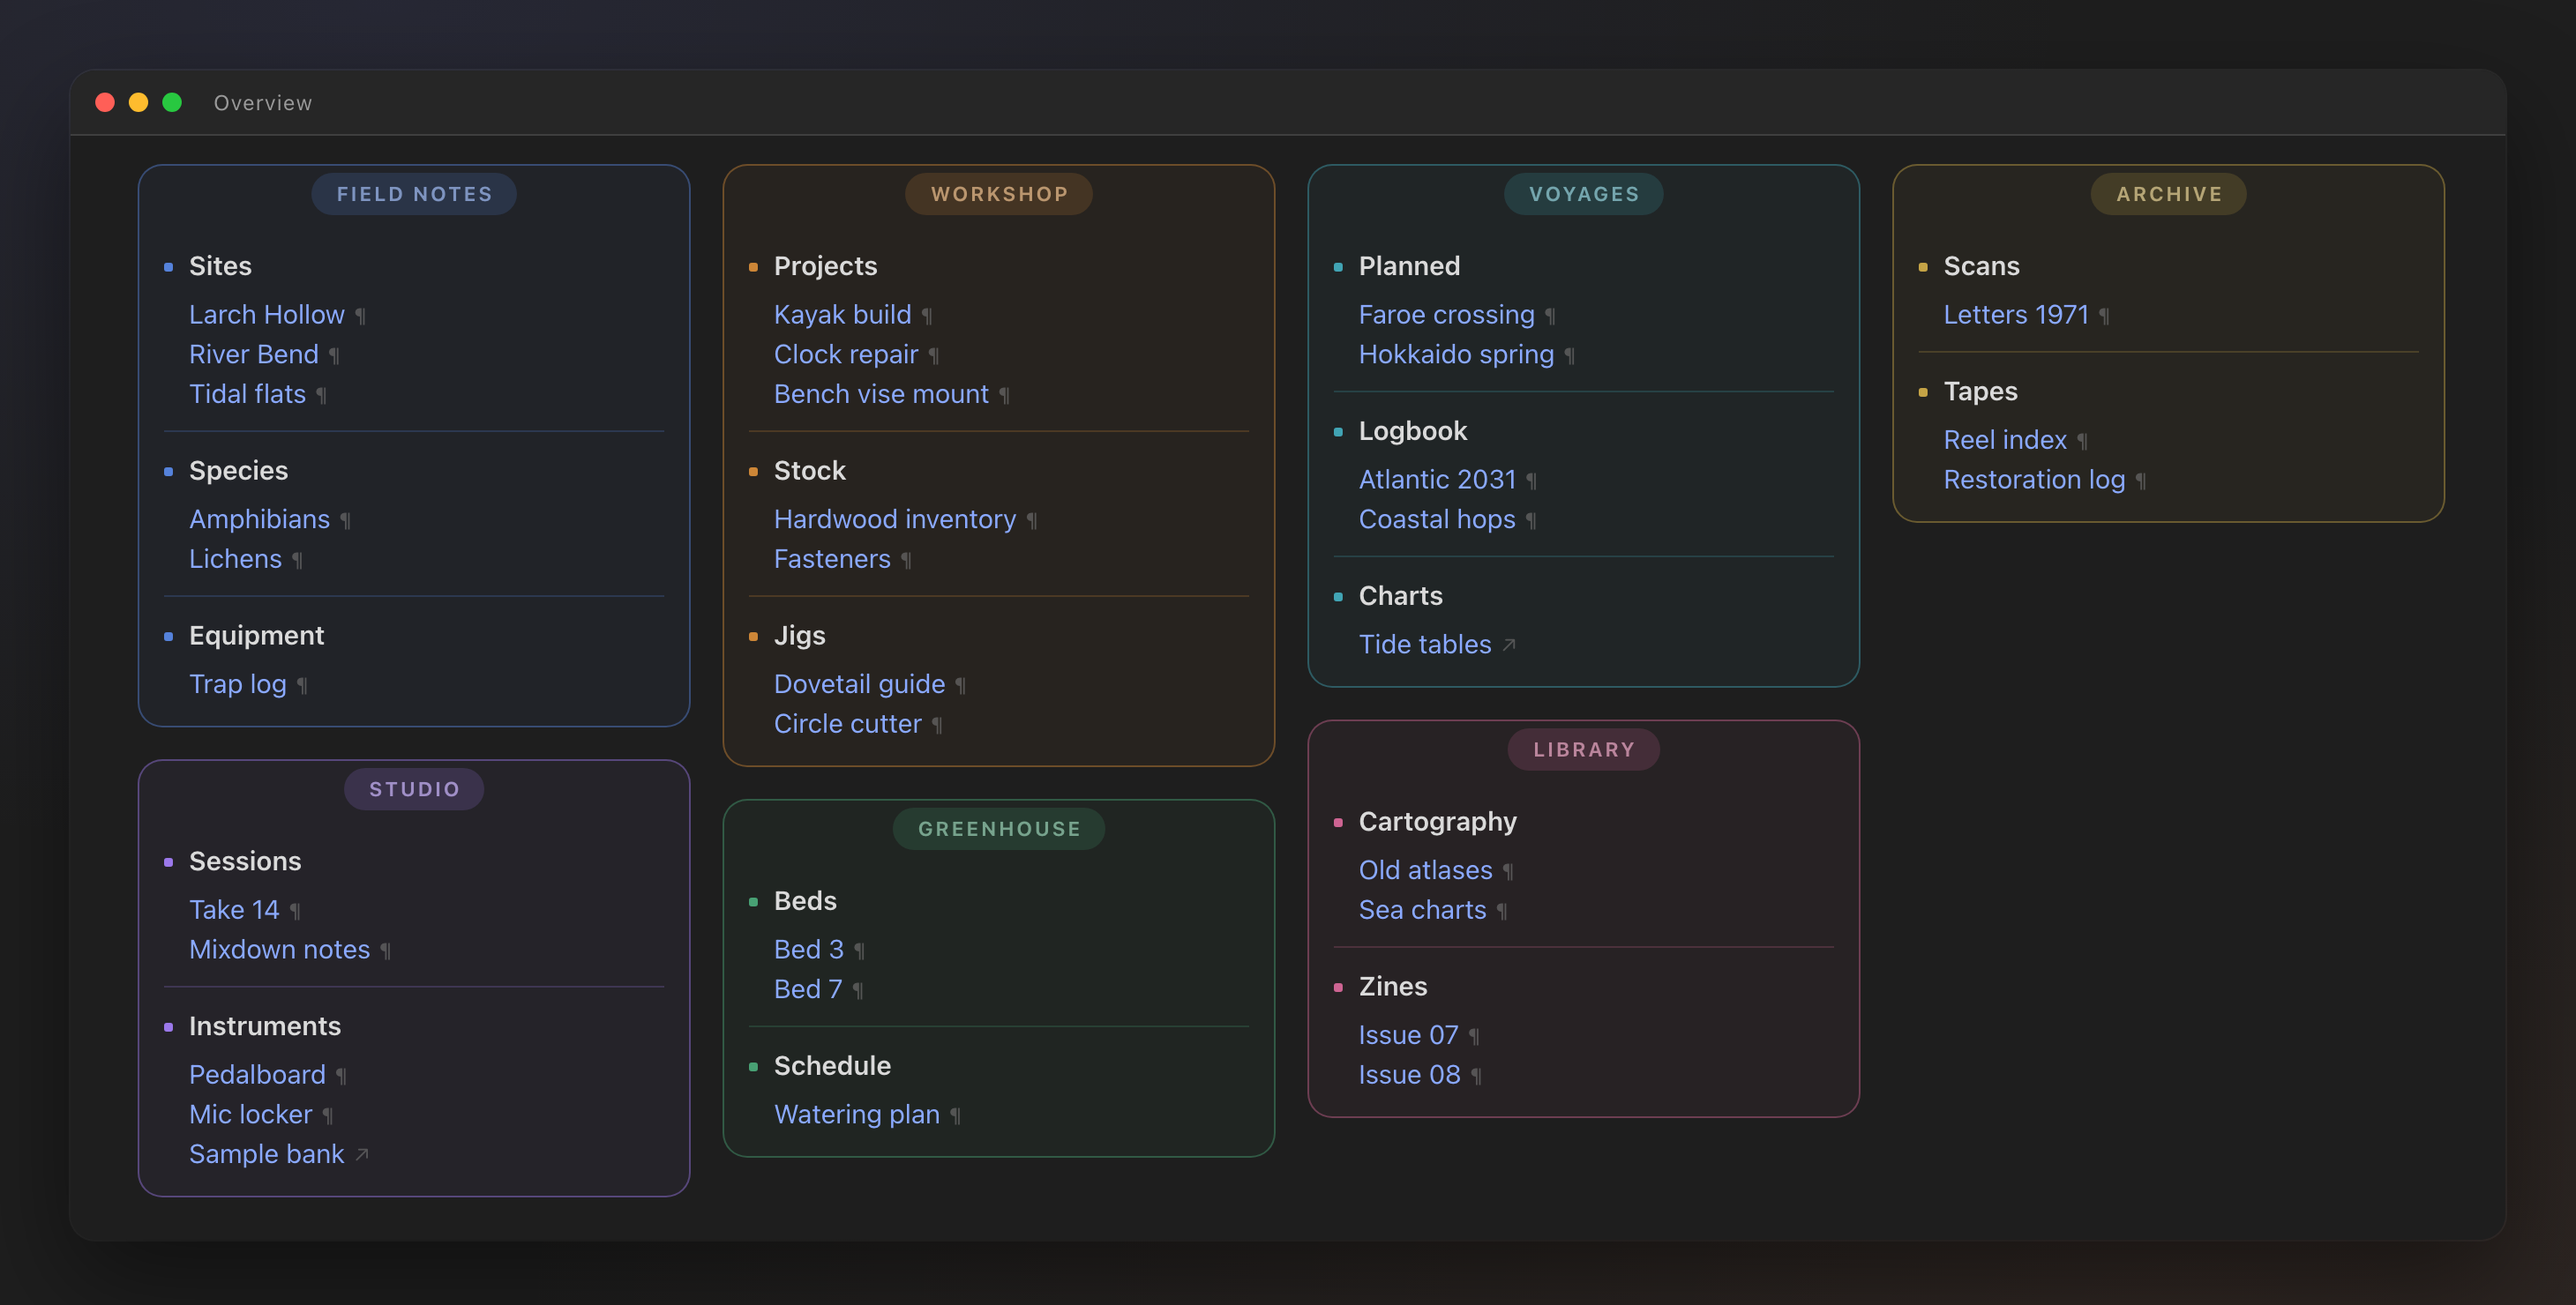
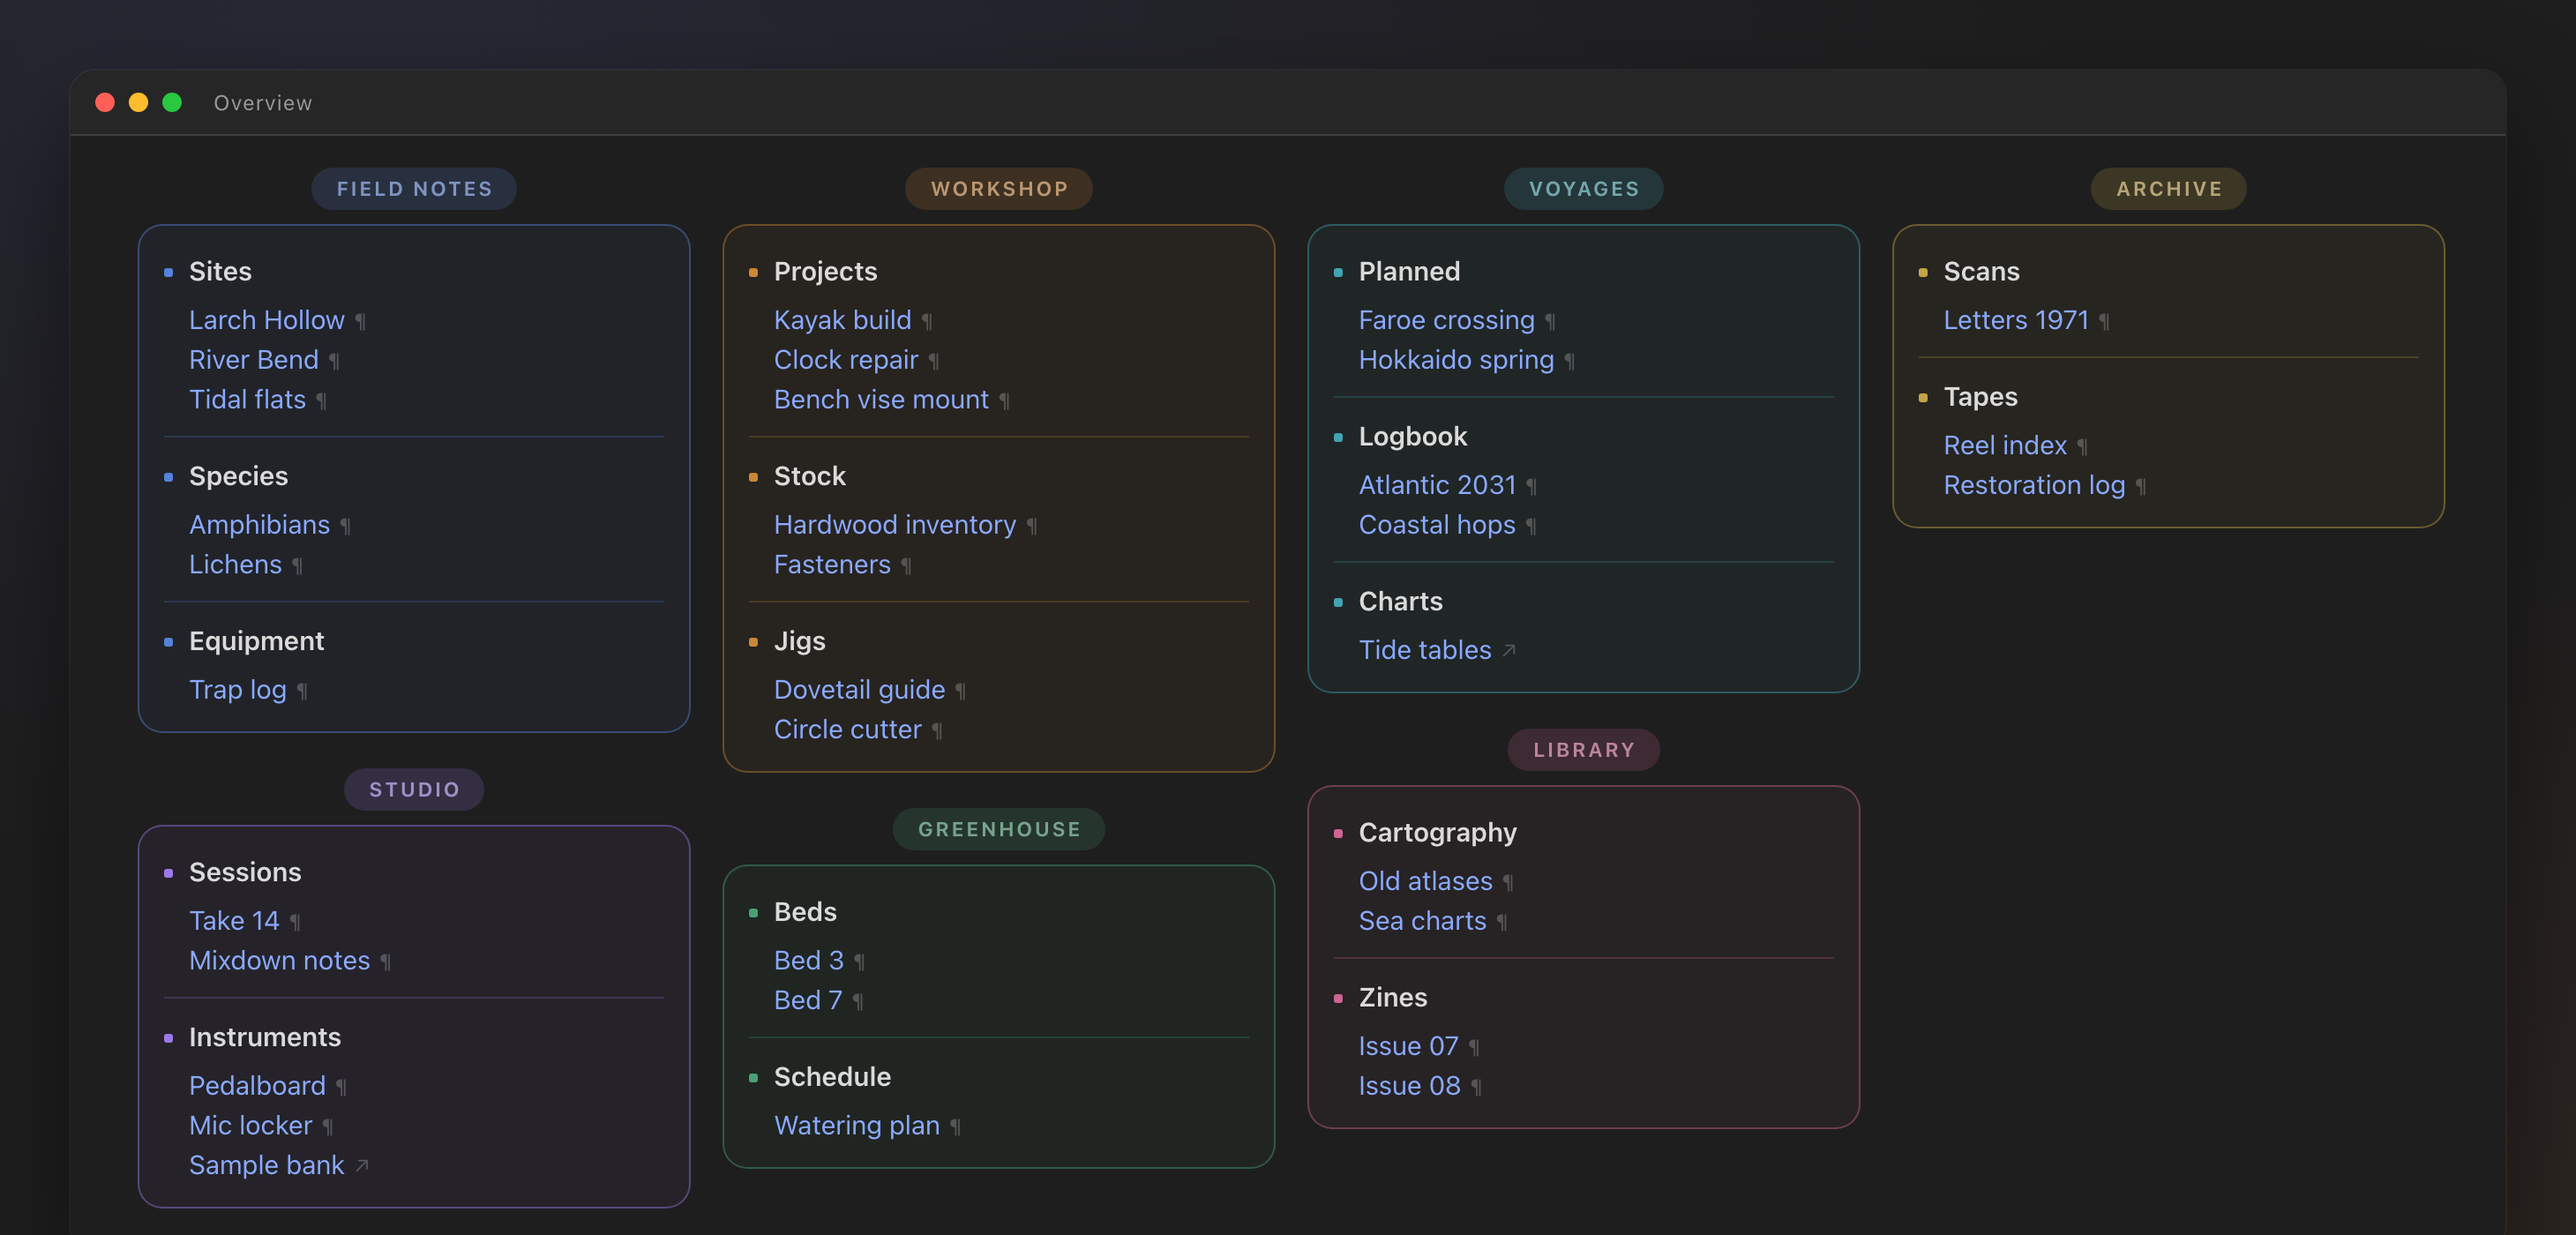
Move the section title outside the card outline
The title chip now sits above the card instead of inside it. The
outline wraps only the blocks, which removes the negative margin that
pulled the border up over the heading along with the padding that
compensated for it.

Besides reading more clearly, this drops the layout's most fragile
part: the negative margin was discarded at column breaks, which is
what made sections misalign at the top of a column.

README and screenshots updated to match.

diff --git a/dashboard.css b/dashboard.css
@@ -19,9 +19,7 @@ Note structure:
 
 .dashboard {
 	padding: 16px 34px 24px 38px !important;
-	/* Height of the section title strip. Must be a whole number of
-	   pixels and stay the single source of truth: the same value is
-	   reused in the negative margin and in the padding below. */
+	/* Minimum height of the section title strip above each card. */
 	--dash-head: 34px;
 
 	/* Base section colour. Every section overrides it below, and the
@@ -135,16 +133,14 @@ Note structure:
 	margin: 0;
 }
 
-/* ── One element draws the whole section outline ──────────────
-   The heading and the block list are two sibling divs. While the
-   border was assembled from two halves, a sub-pixel gap always
-   appeared where they met: the browser rounds the edges of adjacent
-   boxes independently. So the list element now draws the entire
-   outline, including the area behind the heading, and the heading
-   sits on top of it with no border of its own. The side lines
-   belong to a single element and are therefore continuous. */
+/* ── Section: a title above a card ────────────────────────────
+   The heading and the block list are two sibling divs, and only the
+   list is outlined. Keeping the title outside the card means the
+   outline is drawn by a single element, so there is no seam where
+   two boxes would otherwise meet — browsers round the edges of
+   adjacent boxes independently and a hairline gap shows through. */
 
-/* Heading: no border, text only */
+/* Heading: sits above the card, outside its outline */
 .dashboard .markdown-preview-section > div:has(> h2) {
 	position: relative;
 	z-index: 1;
@@ -156,17 +152,16 @@ Note structure:
 	align-items: center;
 	justify-content: center;
 	margin: 0;
-	padding: 0 12px;
+	padding: 0 12px 6px;
 	border: none;
 }
 
-/* Blocks plus the outline of the whole section.
-   The negative margin-top lifts the top border up to the top of the
-   heading; an equal padding-top pushes the content back down. */
+/* Blocks. The outline wraps only them — the section title stands
+   above the card rather than inside it. */
 .dashboard .markdown-preview-section > div:has(> ul) {
 	break-inside: avoid;
-	margin: calc(-1 * var(--dash-head)) 0 18px;
-	padding: var(--dash-head) 14px 13px;
+	margin: 0 0 18px;
+	padding: 12px 14px 13px;
 	border: 1px solid var(--dash-line);
 	border-radius: 14px;
 	background-color: var(--dash-surface);
@@ -240,7 +235,7 @@ Note structure:
 .dashboard .markdown-preview-section > div > ul {
 	display: block;
 	list-style: none;
-	margin: 9px 0 0;
+	margin: 0;
 	padding: 0;
 }
 

diff --git a/README.md b/README.md
@@ -34,8 +34,8 @@ cssclasses:
 	- [[Hardwood inventory]]
 ```
 
-`## Heading` becomes a **section** — a bordered card with a pill-shaped title.
-Each top-level bullet becomes a **block** inside it. Nested bullets are the links.
+`## Heading` becomes a **section** — a pill-shaped title above a bordered card.
+Each top-level bullet becomes a **block** inside the card. Nested bullets are the links.
 
 ---
 
@@ -48,7 +48,7 @@ Each top-level bullet becomes a **block** inside it. Nested bullets are the link
 | **Zero-chrome reading view** | The inline title and properties block are hidden in Reading view only — the editor keeps them, so frontmatter stays editable. |
 | **Typed links** | Internal notes are marked `¶`, external URLs `↗`. Underlines are removed. Unresolved links turn the marker red. |
 | **No bullet noise** | List markers are suppressed at every level; a small square in the section colour marks each block instead. |
-| **Seamless borders** | The whole section outline is drawn by a single element — no sub-pixel gaps where a header meets its body (see [How it works](#how-it-works)). |
+| **Seamless borders** | The outline is drawn by a single element, so no sub-pixel gap can open up inside it (see [How it works](#how-it-works)). |
 
 ---
 
@@ -121,7 +121,7 @@ Everything tunable lives in one block at the top of the file.
 
 | Variable | Default | What it does |
 |---|---|---|
-| `--dash-head` | `34px` | Height of the section title strip. Must be a whole number of pixels. |
+| `--dash-head` | `34px` | Minimum height of the title strip above each card. |
 | `--dash-accent` | `var(--text-accent)` | Base section colour, overridden per section below. |
 | `--dash-marker` | `5px` | Size of the square marker before a block title. |
 | `--dash-marker-gap` | `9px` | Gap between marker and title. Block content is indented by marker + gap. |
@@ -162,11 +162,10 @@ whole with `break-inside: avoid`, and a heading is glued to its list with `break
 the element that contains it. The browser balances the columns, so vertical space fills itself.
 
 **A section outline with no seams.** A heading and its list are two sibling `<div>`s — you cannot
-wrap them. Drawing the top half of a border on one and the bottom half on the other looks correct in
-theory, but browsers round each box independently and a hairline gap appears where they meet. The
-fix: the list element draws the *entire* outline, pulled up over the heading with
-`margin-top: calc(-1 * var(--dash-head))` and pushed back with an equal `padding-top`. One element,
-one border, no seam.
+wrap them in a shared container. Splitting a border between them, top half on one and bottom half on
+the other, looks right in theory, but browsers round each box independently and a hairline gap opens
+where the two meet. The fix is to stop splitting it: only the list is outlined, and the title sits
+above the card instead of inside it. One element, one border, no seam.
 
 **Alignment that survives edits.** The block title is offset by its marker, so the nested links are
 indented by `calc(var(--dash-marker) + var(--dash-marker-gap))` — the same numbers. Resize the
